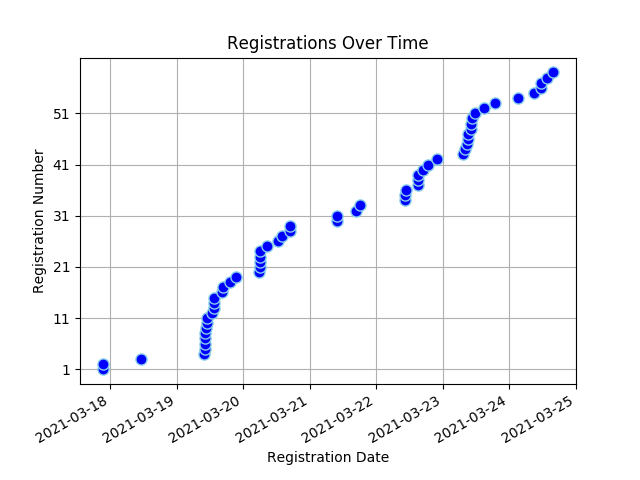
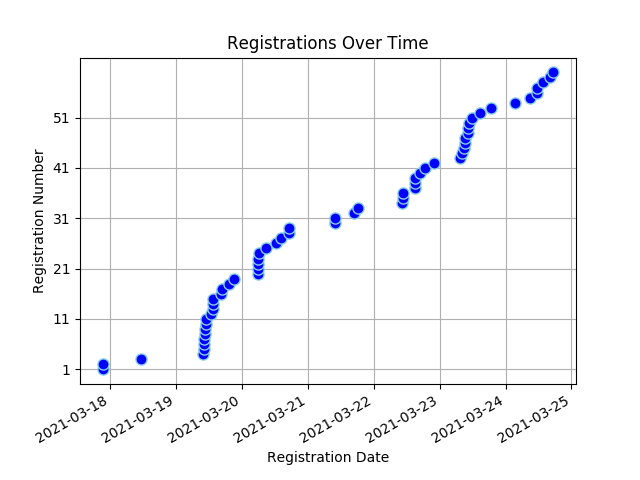
Registree stats backup on Wed 24 Mar 2021 17:34:03 SAST

diff --git a/content/registrees/_index.md b/content/registrees/_index.md
@@ -3,9 +3,9 @@ title: Registration Stats
 draft: false
 ---
 
-<ul><li><strong>Number of Registrees</strong>: 59</li>
+<ul><li><strong>Number of Registrees</strong>: 60</li>
 
-<li><strong>Number of Clubs</strong>: 33</li>
+<li><strong>Number of Clubs</strong>: 34</li>
 
 <li><strong>Club With Most Attendees</strong>: Kuilsriver (5 registrees)</li>
 </ul><h2>Registrees</h2>
@@ -33,6 +33,6 @@ draft: false
         </tr>
     </thead>
     <tbody>
-<tr><td>Valencia Beukes-Williams</td><td>Kuilsriver</td><td>410W</td></tr><tr><td>JOSE BRAGA BORGES</td><td>Malmesbury</td><td>410W</td></tr><tr><td>Herman Cadman</td><td>Stellenbosch</td><td>410W</td></tr><tr><td>Linda Ann Cannone</td><td>Fish Hoek</td><td>410W</td></tr><tr><td>Sue Charles</td><td>Tokai</td><td>410W</td></tr><tr><td>Perry Chetty</td><td>East Coast</td><td>410E</td></tr><tr><td>Esme Cornelius</td><td>Kuilsriver</td><td>410W</td></tr><tr><td>Sharon Cottle</td><td>Groote Schuur</td><td>410E</td></tr><tr><td>Peter Daniel</td><td>Gordons Bay</td><td>410W</td></tr><tr><td>Norma Daniel</td><td>Gordons Bay</td><td>410W</td></tr><tr><td>Engela de Kock</td><td>Swellendam</td><td>410W</td></tr><tr><td>Francois de Kock</td><td>Swellendam</td><td>410W</td></tr><tr><td>Desiree du Toit</td><td>Ramsgate</td><td>410E</td></tr><tr><td>Charles Flanagan</td><td>Tokai</td><td>410W</td></tr><tr><td>Jules Flanagan</td><td>Tokai</td><td>410W</td></tr><tr><td>Viv Grater</td><td>Sedgefield</td><td>410W</td></tr><tr><td>Dorothy Hess</td><td>Kuilsriver</td><td>410W</td></tr><tr><td>Wendy Higgins</td><td>Wilro Park</td><td>410E</td></tr><tr><td>Jacqui Hocking</td><td>Midrand</td><td>410E</td></tr><tr><td>Cliff Hocking</td><td>Midrand</td><td>410E</td></tr><tr><td>Liz Houston</td><td>Table View</td><td>410W</td></tr><tr><td>John Houston</td><td>Table View</td><td>410W</td></tr><tr><td>WOLSLEY Jacobson</td><td>Cape Town</td><td>410W</td></tr><tr><td>Zwaai Kruger</td><td>Sedgefield</td><td>410W</td></tr><tr><td>Bevil Lakay</td><td>Mitchells Plain</td><td>410W</td></tr><tr><td>Paula Lang</td><td>Gordons Bay</td><td>410W</td></tr><tr><td>Jimmy Lang</td><td>Gordons Bay</td><td>410W</td></tr><tr><td>Sharon Mangwende</td><td>Cape Town</td><td>410E</td></tr><tr><td>Beaulieu Mare</td><td>Benoni Lakes</td><td>410E</td></tr><tr><td>Mark Meltzer</td><td>The Wilds</td><td>410E</td></tr><tr><td>Denis Meyer</td><td>Port Shepstone</td><td>410E</td></tr><tr><td>BERNICE MILLS</td><td>Centurion</td><td>410E</td></tr><tr><td>Patrick Mills</td><td>Centurion</td><td>410E</td></tr><tr><td>Cherie Milosevich</td><td>Milnerton</td><td>410W</td></tr><tr><td>Pieter Nel</td><td>George</td><td>410W</td></tr><tr><td>Tillie Nel</td><td>Eden</td><td>410W</td></tr><tr><td>BRIAN PORTEOUS</td><td>Hibberdene</td><td>410E</td></tr><tr><td>Ingrid Russell</td><td>Fish Hoek</td><td>410W</td></tr><tr><td>Francis Searle</td><td>Kouga</td><td>410E</td></tr><tr><td>Gloria Searle</td><td>Kouga</td><td>410E</td></tr><tr><td>Sue Smit</td><td>Centurion</td><td>410E</td></tr><tr><td>Jeff Smith</td><td>Port Shepstone</td><td>410E</td></tr><tr><td>LYN SNYMAN</td><td>Deep South</td><td>410W</td></tr><tr><td>RORY stier</td><td>Deep South</td><td>410W</td></tr><tr><td>Patrick Strauss</td><td>Kuilsriver</td><td>410W</td></tr><tr><td>Lauryn Talbot</td><td>Benoni Lakes</td><td>410E</td></tr><tr><td>Alistair Tuckett</td><td>Roodepoort Clearwater Cyber</td><td>410E</td></tr><tr><td>HILARY LISE VAN BREDA</td><td>Cape Town</td><td>410W</td></tr><tr><td>Marina Van de Merwe</td><td>Malmesbury</td><td>410W</td></tr><tr><td>Neville Van Rensburg</td><td>Moorreesburg</td><td>410W</td></tr><tr><td>Jeannie van Wulven</td><td>Tygerberg Hills</td><td>410W</td></tr><tr><td>Alan van Wulven</td><td>Tygerberg Hills</td><td>410W</td></tr><tr><td>Deon van Wulven</td><td>Tygerberg Hills</td><td>410W</td></tr><tr><td>Kim van Wyk</td><td>North Durban</td><td>410E</td></tr><tr><td>Edith Van Wyk-Nelson</td><td>Kuilsriver</td><td>410W</td></tr><tr><td>Brian von der Decken</td><td>King William's Town</td><td>410E</td></tr><tr><td>Rochelle Vorster</td><td>Sedgefield</td><td>410W</td></tr><tr><td>Allan Watson</td><td>Sea Point</td><td>410W</td></tr><tr><td>Judy Young</td><td>Durbanville</td><td>410W</td></tr>
+<tr><td>Valencia Beukes-Williams</td><td>Kuilsriver</td><td>410W</td></tr><tr><td>JOSE BRAGA BORGES</td><td>Malmesbury</td><td>410W</td></tr><tr><td>Herman Cadman</td><td>Stellenbosch</td><td>410W</td></tr><tr><td>Linda Ann Cannone</td><td>Fish Hoek</td><td>410W</td></tr><tr><td>Sue Charles</td><td>Tokai</td><td>410W</td></tr><tr><td>Perry Chetty</td><td>East Coast</td><td>410E</td></tr><tr><td>Esme Cornelius</td><td>Kuilsriver</td><td>410W</td></tr><tr><td>Sharon Cottle</td><td>Groote Schuur</td><td>410E</td></tr><tr><td>Peter Daniel</td><td>Gordons Bay</td><td>410W</td></tr><tr><td>Norma Daniel</td><td>Gordons Bay</td><td>410W</td></tr><tr><td>Engela de Kock</td><td>Swellendam</td><td>410W</td></tr><tr><td>Francois de Kock</td><td>Swellendam</td><td>410W</td></tr><tr><td>Desiree du Toit</td><td>Ramsgate</td><td>410E</td></tr><tr><td>Charles Flanagan</td><td>Tokai</td><td>410W</td></tr><tr><td>Jules Flanagan</td><td>Tokai</td><td>410W</td></tr><tr><td>Viv Grater</td><td>Sedgefield</td><td>410W</td></tr><tr><td>Dorothy Hess</td><td>Kuilsriver</td><td>410W</td></tr><tr><td>Wendy Higgins</td><td>Wilro Park</td><td>410E</td></tr><tr><td>Jacqui Hocking</td><td>Midrand</td><td>410E</td></tr><tr><td>Cliff Hocking</td><td>Midrand</td><td>410E</td></tr><tr><td>Liz Houston</td><td>Table View</td><td>410W</td></tr><tr><td>John Houston</td><td>Table View</td><td>410W</td></tr><tr><td>WOLSLEY Jacobson</td><td>Cape Town</td><td>410W</td></tr><tr><td>Zwaai Kruger</td><td>Sedgefield</td><td>410W</td></tr><tr><td>Bevil Lakay</td><td>Mitchells Plain</td><td>410W</td></tr><tr><td>Paula Lang</td><td>Gordons Bay</td><td>410W</td></tr><tr><td>Jimmy Lang</td><td>Gordons Bay</td><td>410W</td></tr><tr><td>Sharon Mangwende</td><td>Cape Town</td><td>410E</td></tr><tr><td>Beaulieu Mare</td><td>Benoni Lakes</td><td>410E</td></tr><tr><td>Mark Meltzer</td><td>The Wilds</td><td>410E</td></tr><tr><td>Denis Meyer</td><td>Port Shepstone</td><td>410E</td></tr><tr><td>BERNICE MILLS</td><td>Centurion</td><td>410E</td></tr><tr><td>Patrick Mills</td><td>Centurion</td><td>410E</td></tr><tr><td>Cherie Milosevich</td><td>Milnerton</td><td>410W</td></tr><tr><td>Pieter Nel</td><td>George</td><td>410W</td></tr><tr><td>Tillie Nel</td><td>Eden</td><td>410W</td></tr><tr><td>BRIAN PORTEOUS</td><td>Hibberdene</td><td>410E</td></tr><tr><td>Irene Rugheimer</td><td>Bedfordview</td><td>410E</td></tr><tr><td>Ingrid Russell</td><td>Fish Hoek</td><td>410W</td></tr><tr><td>Francis Searle</td><td>Kouga</td><td>410E</td></tr><tr><td>Gloria Searle</td><td>Kouga</td><td>410E</td></tr><tr><td>Sue Smit</td><td>Centurion</td><td>410E</td></tr><tr><td>Jeff Smith</td><td>Port Shepstone</td><td>410E</td></tr><tr><td>LYN SNYMAN</td><td>Deep South</td><td>410W</td></tr><tr><td>RORY stier</td><td>Deep South</td><td>410W</td></tr><tr><td>Patrick Strauss</td><td>Kuilsriver</td><td>410W</td></tr><tr><td>Lauryn Talbot</td><td>Benoni Lakes</td><td>410E</td></tr><tr><td>Alistair Tuckett</td><td>Roodepoort Clearwater Cyber</td><td>410E</td></tr><tr><td>HILARY LISE VAN BREDA</td><td>Cape Town</td><td>410W</td></tr><tr><td>Marina Van de Merwe</td><td>Malmesbury</td><td>410W</td></tr><tr><td>Neville Van Rensburg</td><td>Moorreesburg</td><td>410W</td></tr><tr><td>Jeannie van Wulven</td><td>Tygerberg Hills</td><td>410W</td></tr><tr><td>Alan van Wulven</td><td>Tygerberg Hills</td><td>410W</td></tr><tr><td>Deon van Wulven</td><td>Tygerberg Hills</td><td>410W</td></tr><tr><td>Kim van Wyk</td><td>North Durban</td><td>410E</td></tr><tr><td>Edith Van Wyk-Nelson</td><td>Kuilsriver</td><td>410W</td></tr><tr><td>Brian von der Decken</td><td>King William's Town</td><td>410E</td></tr><tr><td>Rochelle Vorster</td><td>Sedgefield</td><td>410W</td></tr><tr><td>Allan Watson</td><td>Sea Point</td><td>410W</td></tr><tr><td>Judy Young</td><td>Durbanville</td><td>410W</td></tr>
 </tbody>
 </table>

diff --git a/content/full_stats/_index.md b/content/full_stats/_index.md
@@ -16,13 +16,13 @@ draft: false
 </head>
 <body>
 <h1 style="color: #000000;">Full Registration Stats</h1>
-<ul><li><strong>Number of Registrees</strong>: 59</li>
-<li><strong>Number of Clubs</strong>: 33</li>
+<ul><li><strong>Number of Registrees</strong>: 60</li>
+<li><strong>Number of Clubs</strong>: 34</li>
 <li><strong>Club With Most Attendees</strong>: Kuilsriver (5 registrees)</li>
 
 <li><strong>Number of District 410W Convention Attendees</strong>: 38</li>
 <li><strong>Number of District 410W Convention Voters</strong>: 22</li>
-<li><strong>Number of District 410E Convention Attendees</strong>: 21</li>
+<li><strong>Number of District 410E Convention Attendees</strong>: 22</li>
 <li><strong>Number of District 410E Convention Voters</strong>: 12</li>
 
 <li><strong>Number of MD410 Convention Attendees</strong>: 56</li>
@@ -464,6 +464,17 @@ draft: false
 <td style="background-color: lightgreen">Yes</td>
 <td style="background-color: lightgreen">Yes</td>
 <td style="background-color: lightgreen">Yes</td>
+<td>No</td>
+</tr>
+
+    
+<td>62</td>
+<td>Irene Rugheimer</td>
+<td>Bedfordview</td>
+<td>410E</td>
+<td>No</td>
+<td style="background-color: lightgreen">Yes</td>
+<td>No</td>
 <td>No</td>
 </tr>
 
